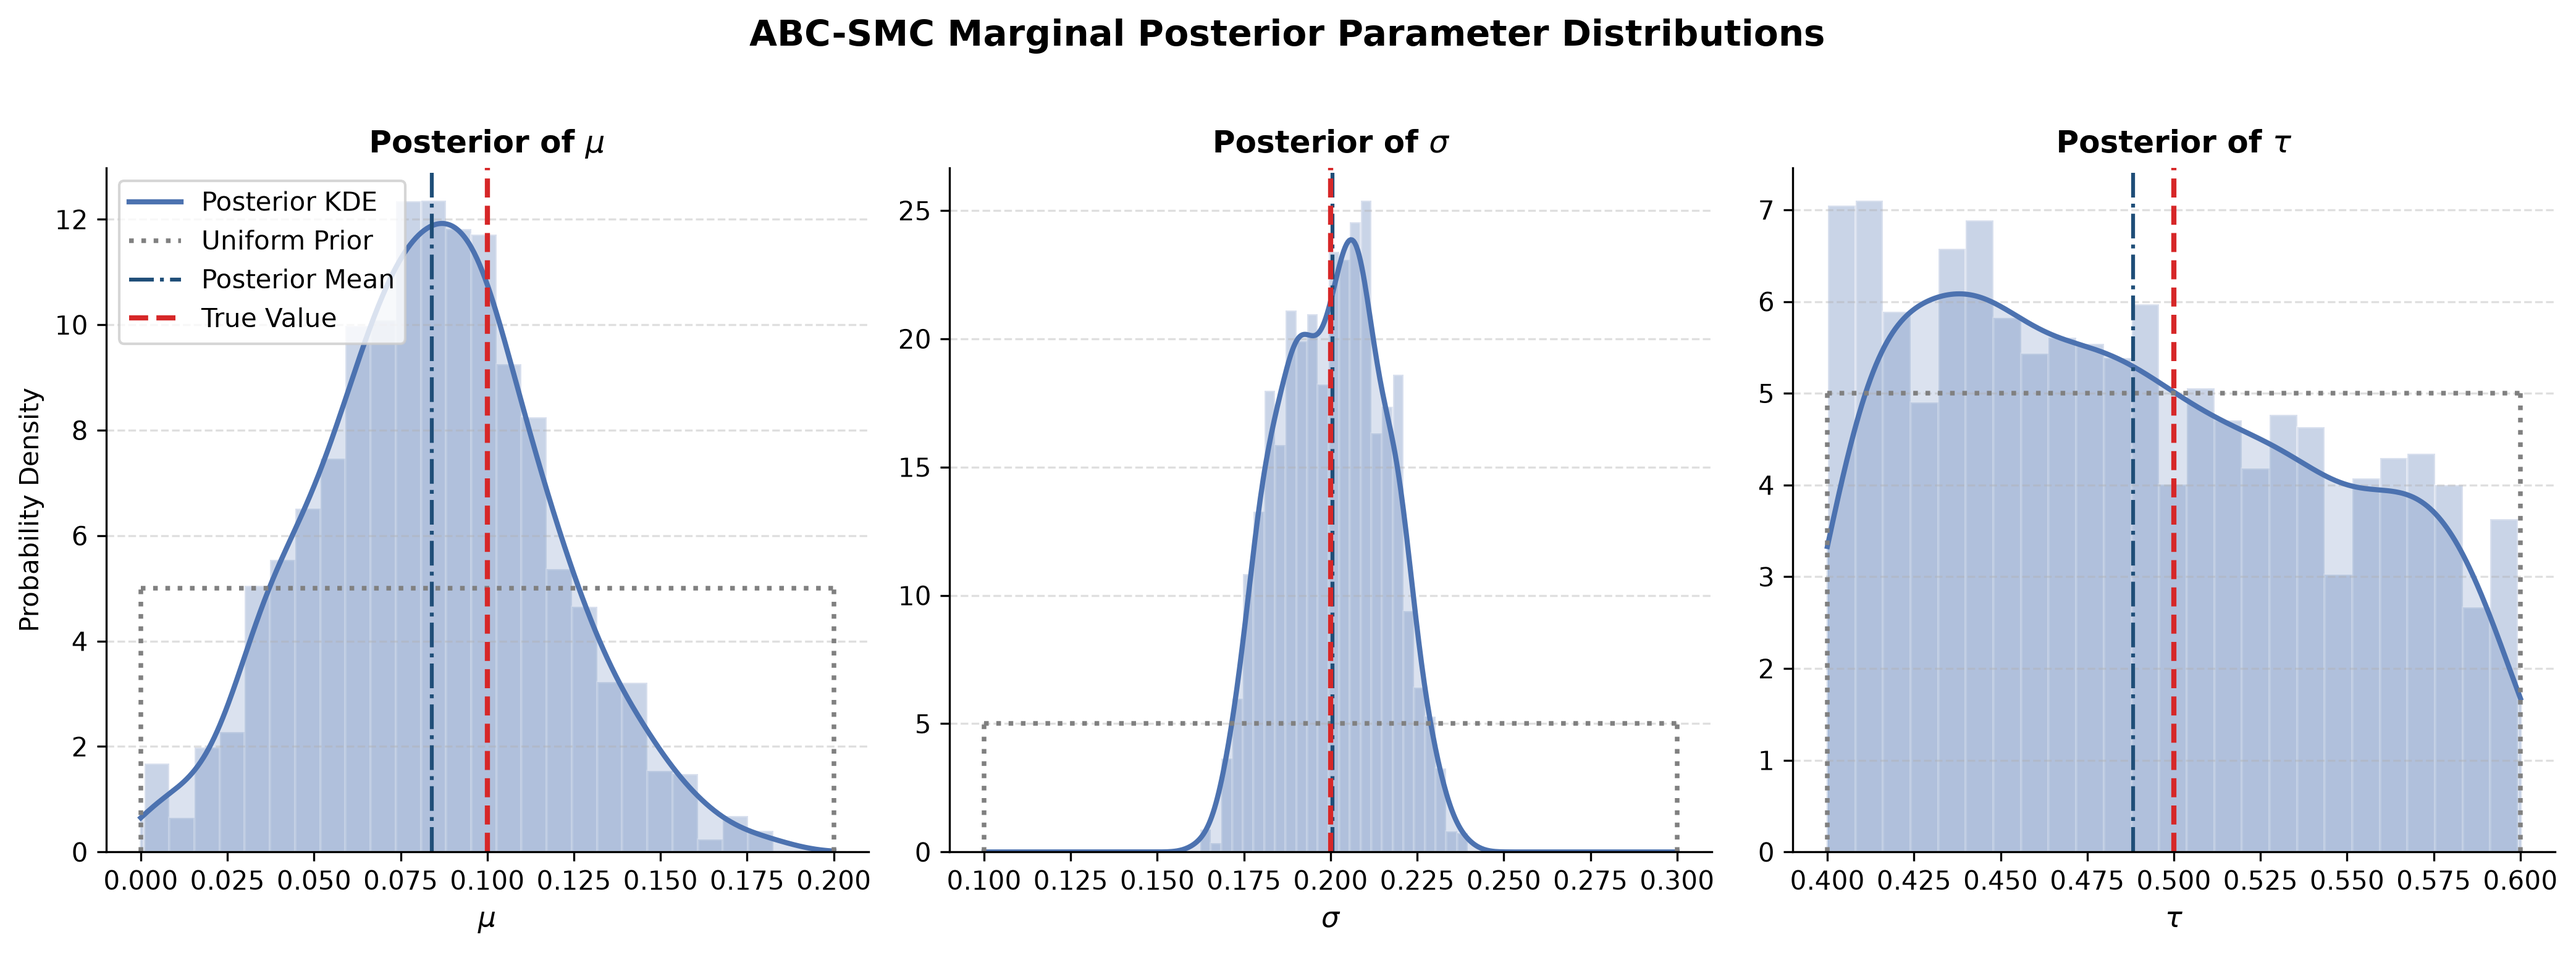
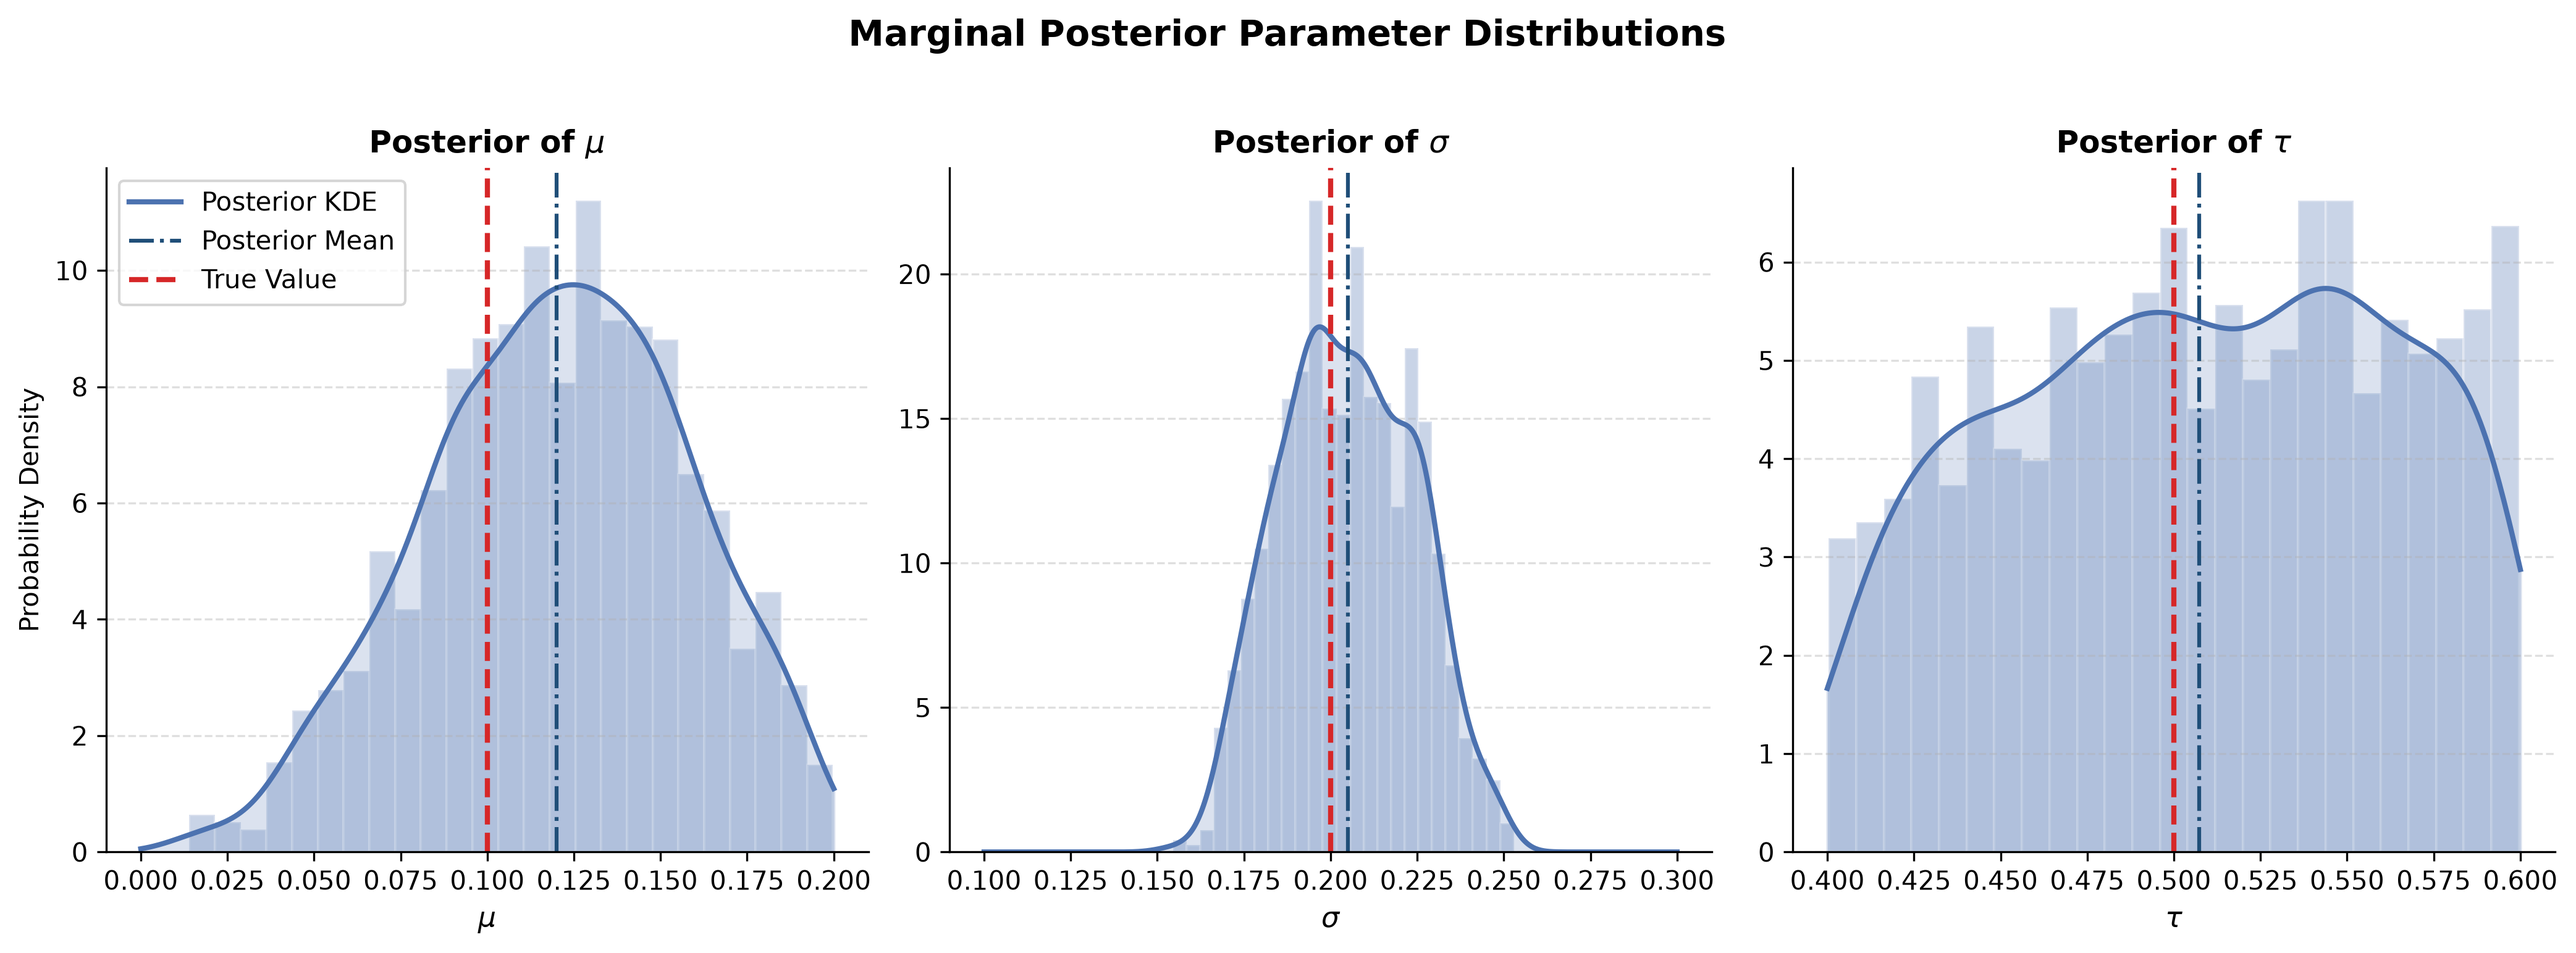
ft: added terminate cond

diff --git a/abc-nn/exp_model_based.py b/abc-nn/exp_model_based.py
@@ -4,6 +4,7 @@ from simulator.utilities import sample_prior
 from functools import partial
 import numpy as np
 import matplotlib.pyplot as plt
+from scipy.stats import gaussian_kde
 
 """
 This file is for experimenting the ABC-SMC loop with model-based summary statistics.
@@ -58,24 +59,17 @@ results = abcsmc_forward(
     summarise=summarise,
     n_part=1000,
     max_iter=5,
-    q=0.1
+    q=0.1,
+    max_sims=1e+5
 )
 # print results
-"""
-tuple: A tuple containing the following arrays up to the final completed round (t+1):
-            - abc_particles (np.ndarray): The accepted parameter vectors forming the posterior.
-            - abc_weights (np.ndarray): The calculated Sequential Monte Carlo importance weights.
-            - abc_round_time (np.ndarray): The computation time (in seconds) spent simulating and sampling per round.
-            - acc_rates (np.ndarray): The percentage of proposed simulations accepted in each round.
-            - obs_summaries (np.ndarray): The neural network's evolving summary statistic representation of the observed data.
-            - abc_thresholds (np.ndarray): The epsilon distance thresholds enforced at each round.
-"""
 print('Final ABC-SMC results:')
 print('Weights: ', results[1])
 print('Round times: ', results[2])
 print('Acceptance rates: ', results[3])
 print('Observed summaries: ', results[4])
 print('ABC thresholds: ', results[5])
+print('Total amount of sims: ', results[6])
 
 # true params and the labels latex
 true_params = np.array([0.1, 0.2, 0.5])
@@ -86,65 +80,45 @@ final_particles = results[0][-1]
 final_weights = results[1][-1]
 final_weights = final_weights / np.sum(final_weights)
 
-# resample according to the weights to get the weighted posterior
-resampled_indices = np.random.choice(
-    len(final_particles), size=10000, replace=True, p=final_weights
-)
-posterior_samples = final_particles[resampled_indices]
+fig, axes = plt.subplots(1, 3, figsize=(14,5))
 
-# create box plot
-fig, ax = plt.subplots(figsize=(8, 5))
+for i, ax in enumerate(axes):
+    low_bound, high_bound = prior_bounds[i, 0], prior_bounds[i, 1]
+    x_grid = np.linspace(low_bound, high_bound, 500)
 
-bp = ax.boxplot(
-    posterior_samples,
-    tick_labels=param_names,
-    patch_artist=True,
-    widths=0.45,
-    boxprops=dict(facecolor='#4C72B0', alpha=0.65),
-    medianprops=dict(color='black', linewidth=1.5),
-    flierprops=dict(marker='o', markersize=2, alpha=0.25),
-)
-
-# overlay prior bounds interval for reference
-for i in range(len(param_names)):
-    ax.vlines(
-        i + 1,
-        prior_bounds[i, 0],
-        prior_bounds[i, 1],
-        color='gray',
-        linestyle='--',
-        linewidth=1.5,
-        alpha=0.7,
-        label='Prior Bounds' if i == 0 else "",
+    ax.hist(
+        final_particles[:, i],
+        bins=25,
+        weights=final_weights,
+        density=True,
+        color='#4C72B0',
+        alpha=0.3,
+        edgecolor='white',
     )
-    ax.hlines(
-        [prior_bounds[i, 0], prior_bounds[i, 1]],
-        i + 1 - 0.12,
-        i + 1 + 0.12,
-        color='gray',
-        linewidth=1.5,
-        alpha=0.7,
-    )
+    kde = gaussian_kde(final_particles[:, i], weights=final_weights)
+    posterior_pdf = kde(x_grid)
+    ax.plot(x_grid, posterior_pdf, color='#4C72B0', linewidth=2, label='Posterior KDE')
+    ax.fill_between(x_grid, posterior_pdf, color='#4C72B0', alpha=0.2)
 
-# overlay true observed parameter values
-ax.scatter(
-    range(1, len(param_names) + 1),
-    true_params,
-    color='#D62728',
-    zorder=5,
-    s=75,
-    marker='D',
-    label='True Parameter Value',
-)
+    # overlay posterior mean and true parameter value
+    post_mean = np.average(final_particles[:, i], weights=final_weights)
+    ax.axvline(post_mean, color='#1f4e78', linestyle='-.', linewidth=1.5, label='Posterior Mean')
+    ax.axvline(true_params[i], color='#D62728', linestyle='--', linewidth=2, label='True Value')
 
-# plot the results
-ax.set_title('ABC-SMC Posterior Parameter Distributions')
-ax.set_ylabel('Parameter Value')
-ax.grid(axis='y', linestyle='--', alpha=0.4)
-ax.spines['top'].set_visible(False)
-ax.spines['right'].set_visible(False)
-ax.legend(loc='upper left')
+    # add labels and ticks
+    ax.set_title(f'Posterior of {param_names[i]}', fontsize=12, fontweight='bold')
+    ax.set_xlabel(param_names[i], fontsize=11)
+    if i == 0:
+        ax.set_ylabel('Probability Density')
+    ax.set_xlim(low_bound - 0.05 * (high_bound - low_bound), high_bound + 0.05 * (high_bound - low_bound))
+    ax.set_ylim(bottom=0)
+    ax.grid(axis='y', linestyle='--', alpha=0.4)
+    ax.spines['top'].set_visible(False)
+    ax.spines['right'].set_visible(False)
+
+axes[0].legend(loc='upper left', frameon=True)
+fig.suptitle('Marginal Posterior Parameter Distributions', fontsize=14, fontweight='bold', y=1.02)
 
 plt.tight_layout()
-plt.savefig('abcsmc_posterior_parameters.png', dpi=300)
+plt.savefig('abcsmc_posterior_distributions_model.png', dpi=300, bbox_inches='tight')
 plt.show()

diff --git a/abc-nn/exp_canonical.py b/abc-nn/exp_canonical.py
@@ -59,25 +59,18 @@ results = abcsmc_forward(
     summarise=summarise,
     n_part=1000,
     max_iter=5,
-    q=0.1
+    q=0.1,
+    max_sims=1e+5
 )
 
 # print results
-"""
-tuple: A tuple containing the following arrays up to the final completed round (t+1):
-            - abc_particles (np.ndarray): The accepted parameter vectors forming the posterior.
-            - abc_weights (np.ndarray): The calculated Sequential Monte Carlo importance weights.
-            - abc_round_time (np.ndarray): The computation time (in seconds) spent simulating and sampling per round.
-            - acc_rates (np.ndarray): The percentage of proposed simulations accepted in each round.
-            - obs_summaries (np.ndarray): The neural network's evolving summary statistic representation of the observed data.
-            - abc_thresholds (np.ndarray): The epsilon distance thresholds enforced at each round.
-"""
 print('Final ABC-SMC results:')
 print('Weights: ', results[1])
 print('Round times: ', results[2])
 print('Acceptance rates: ', results[3])
 print('Observed summaries: ', results[4])
 print('ABC thresholds: ', results[5])
+print('Total amount of sims: ', results[6])
 
 # true params and the labels latex
 true_params = np.array([0.1, 0.2, 0.5])
@@ -108,14 +101,6 @@ for i, ax in enumerate(axes):
     ax.plot(x_grid, posterior_pdf, color='#4C72B0', linewidth=2, label='Posterior KDE')
     ax.fill_between(x_grid, posterior_pdf, color='#4C72B0', alpha=0.2)
 
-    # overlay uniform prior density
-    prior_height = 1.0 / (high_bound - low_bound)
-    ax.hlines(
-        prior_height, low_bound, high_bound,
-        color='gray', linestyle=':', linewidth=1.8, label='Uniform Prior'
-    )
-    ax.vlines([low_bound, high_bound], 0, prior_height, color='gray', linestyle=':', linewidth=1.8)
-
     # overlay posterior mean and true parameter value
     post_mean = np.average(final_particles[:, i], weights=final_weights)
     ax.axvline(post_mean, color='#1f4e78', linestyle='-.', linewidth=1.5, label='Posterior Mean')
@@ -136,5 +121,5 @@ axes[0].legend(loc='upper left', frameon=True)
 fig.suptitle('Marginal Posterior Parameter Distributions', fontsize=14, fontweight='bold', y=1.02)
 
 plt.tight_layout()
-plt.savefig('abcsmc_posterior_distributions.png', dpi=300, bbox_inches='tight')
+plt.savefig('abcsmc_posterior_distributions_canonical.png', dpi=300, bbox_inches='tight')
 plt.show()

diff --git a/abc-nn/simulator/sampler.py b/abc-nn/simulator/sampler.py
@@ -135,9 +135,11 @@ def abcsmc_forward(obs: np.ndarray, prior_bounds: np.ndarray, simulator: callabl
 
         print(f"The threshold for this round was {abc_thresholds[t]}")
         print(f"Acceptance rate is {round(acceptance_rate, 2)}%")
+        print(f"Total simulations is {cum_total_sim[t]}")
 
-        if t > 2 and acceptance_rate < 1.5:
-            print(f"Acceptance rate below 1.5%, terminating ABC-SMC loop")
+        # we have exceeded the max amount of sims and have run at least 2 rounds
+        if t > 2 and cum_total_sim[t] >= max_sims:
+            print(f"Exceeded max sims, terminating ABC-SMC loop")
             break
 
         print(f"Saving inference results up to round {t + 1}.")
